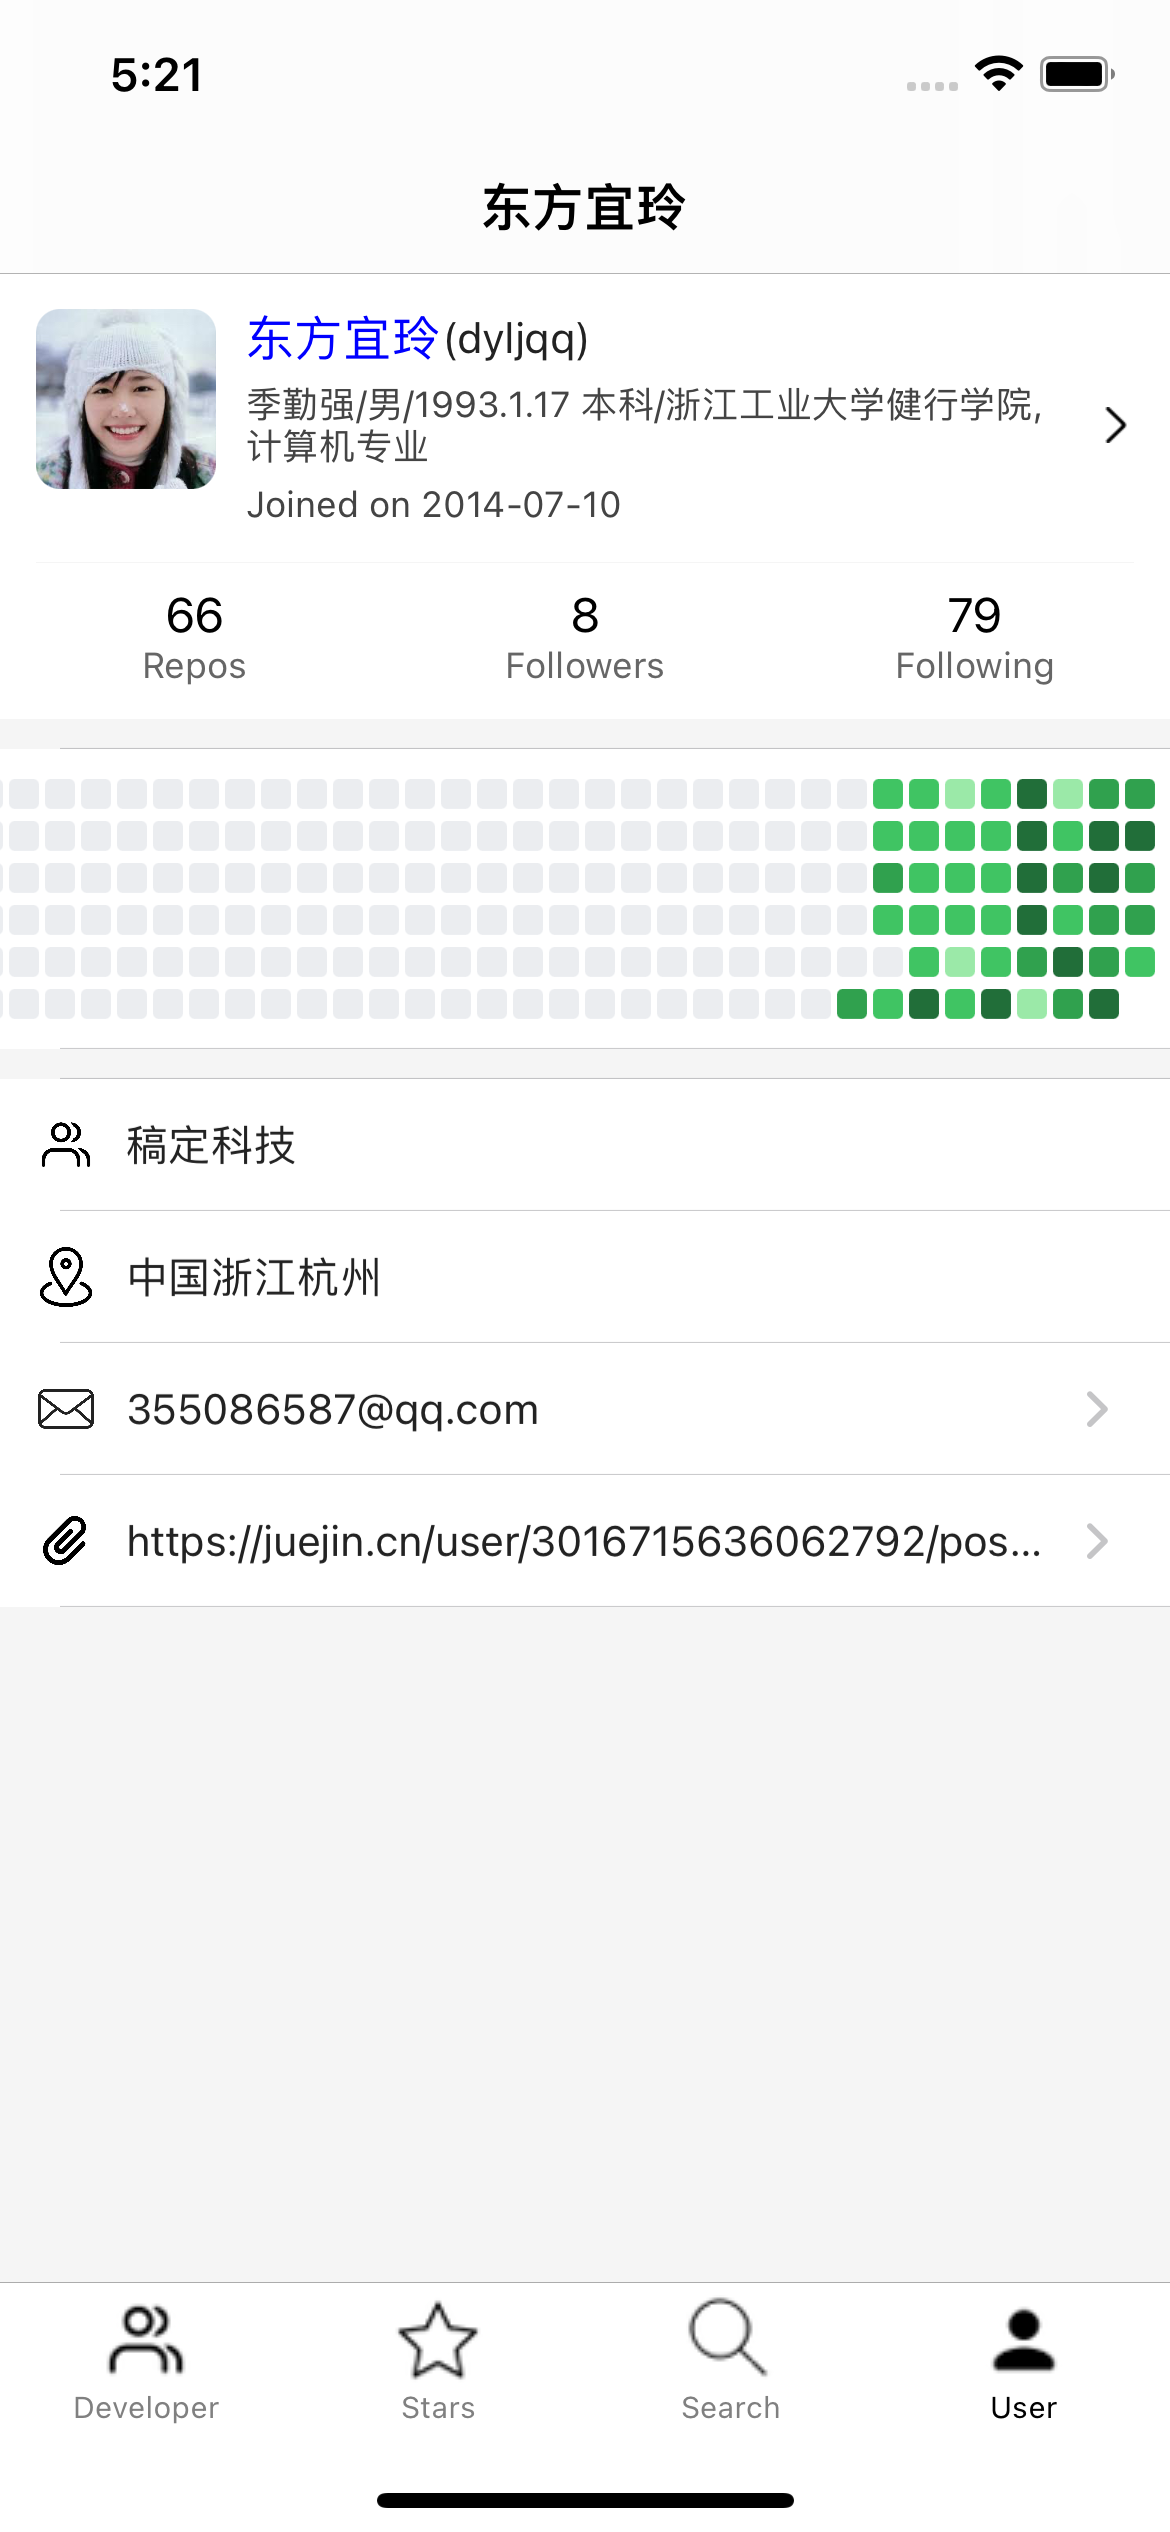
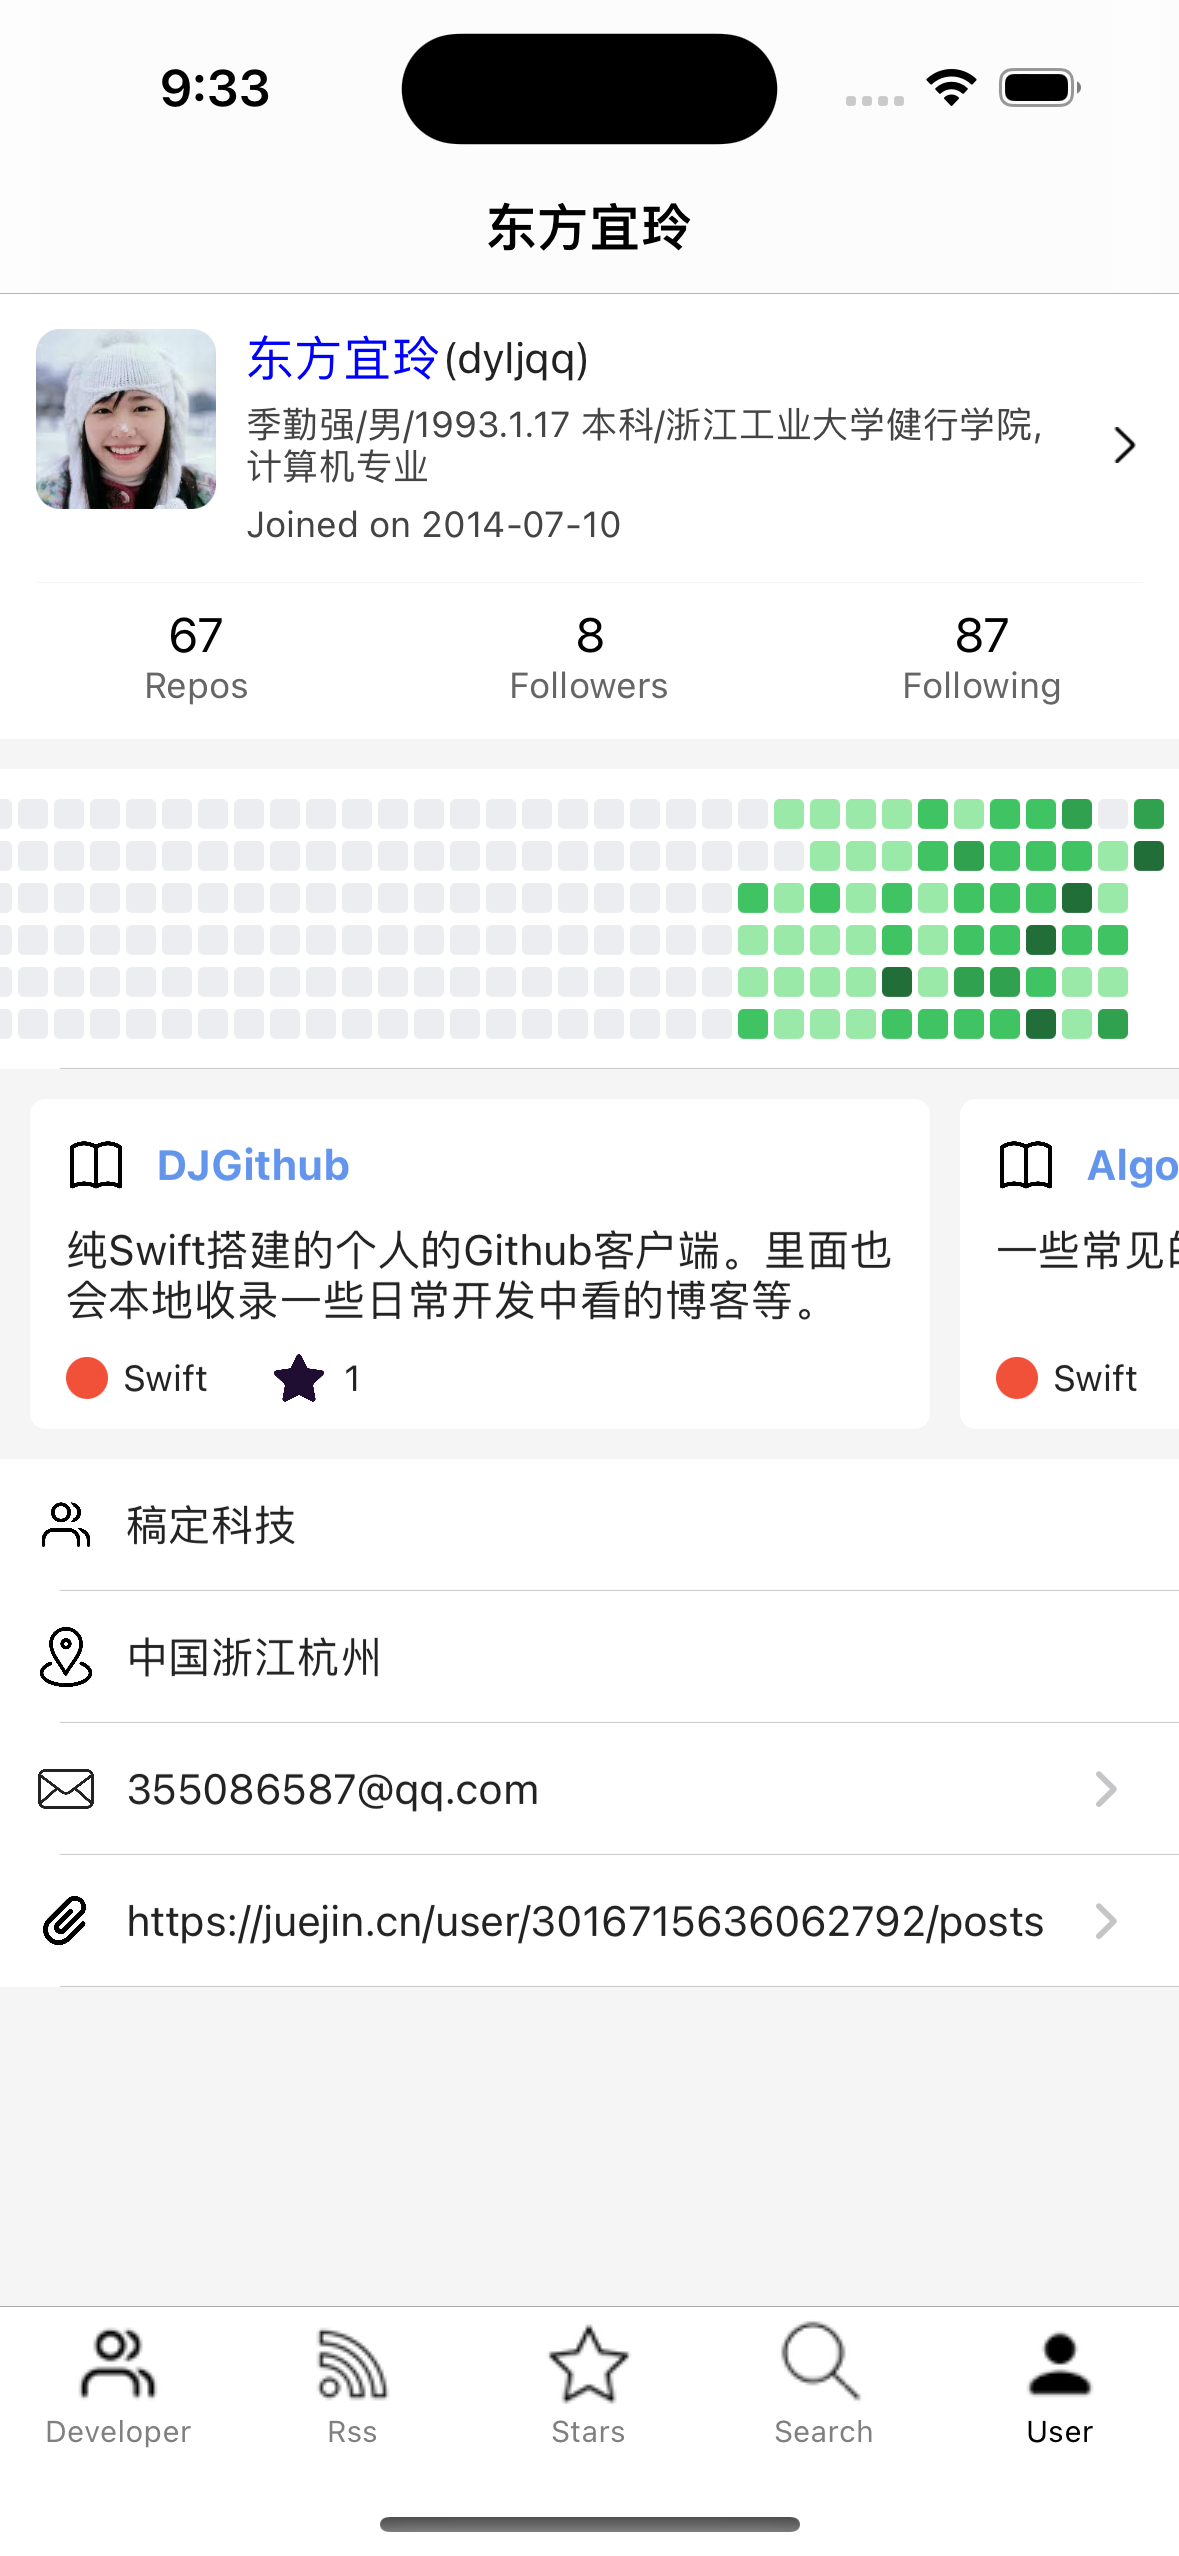
to show pinned items

diff --git a/DJGithub/Github/ViewController/User/Views/PinnedRepoCell.swift b/DJGithub/Github/ViewController/User/Views/PinnedRepoCell.swift
@@ -1,0 +1,135 @@
+//
+//  PinnedRepoCell.swift
+//  DJGithub
+//
+//  Created by jiqinqiang on 2022/10/26.
+//
+
+import UIKit
+
+class PinnedRepoCell: UICollectionViewCell {
+  
+  lazy var nameLabel: UILabel = {
+    let label = UILabel()
+    label.font = UIFont.systemFont(ofSize: 14, weight: .bold)
+    label.textColor = .lightBlue
+    return label
+  }()
+  
+  lazy var repoIconImageView: UIImageView = {
+    let imageView = UIImageView()
+    imageView.image = UIImage(named: "book")
+    return imageView
+  }()
+  
+  lazy var updatedLabel: UILabel = {
+    let label = UILabel()
+    label.font = UIFont.systemFont(ofSize: 12)
+    label.textColor = .textGrayColor
+    return label
+  }()
+  
+  lazy var descLabel: UILabel = {
+    let label = UILabel()
+    label.font = UIFont.systemFont(ofSize: 14)
+    label.textColor = .textColor
+    label.numberOfLines = 2
+    return label
+  }()
+  
+  lazy var languageColorView: UIView = {
+    let view = UIView()
+    view.layer.cornerRadius = 7
+    return view
+  }()
+  
+  lazy var languageLabel: UILabel = {
+    let label = UILabel()
+    label.textColor = .textColor
+    label.font = UIFont.systemFont(ofSize: 12)
+    return label
+  }()
+  
+  lazy var starImageView: UIImageView = {
+    let imageView = UIImageView()
+    imageView.image = UIImage(named: "star")
+    return imageView
+  }()
+  
+  lazy var starCountLabel: UILabel = {
+    let label = UILabel()
+    label.font = UIFont.systemFont(ofSize: 12)
+    label.textColor = .textColor
+    return label
+  }()
+  
+  override init(frame: CGRect) {
+    super.init(frame: frame)
+    setUp()
+  }
+  
+  func render(with pinnedItem: PinnedRepoNode) {
+    nameLabel.text = pinnedItem.name
+    descLabel.text = pinnedItem.description ?? "No Description Provided."
+    languageColorView.backgroundColor = pinnedItem.primaryLanguage?.color.toColor
+    languageLabel.text = pinnedItem.primaryLanguage?.name
+    if pinnedItem.viewerHasStarred {
+      starImageView.image = UIImage(named: "stared")
+    } else {
+      starImageView.image = UIImage(named: "star")
+    }
+    starCountLabel.text = "\(pinnedItem.stargazers.totalCount)"
+  }
+  
+  required init?(coder: NSCoder) {
+    fatalError("init(coder:) has not been implemented")
+  }
+  
+  private func setUp() {
+    contentView.backgroundColor = .white
+    contentView.layer.cornerRadius = 5
+    contentView.layer.masksToBounds = true
+
+    contentView.addSubview(repoIconImageView)
+    contentView.addSubview(nameLabel)
+    contentView.addSubview(updatedLabel)
+    contentView.addSubview(descLabel)
+    contentView.addSubview(languageColorView)
+    contentView.addSubview(languageLabel)
+    contentView.addSubview(starImageView)
+    contentView.addSubview(starCountLabel)
+    
+    repoIconImageView.snp.makeConstraints { make in
+      make.leading.equalTo(12)
+      make.top.equalTo(12)
+      make.width.height.equalTo(20)
+    }
+    nameLabel.snp.makeConstraints { make in
+      make.leading.equalTo(repoIconImageView.snp.trailing).offset(10)
+      make.centerY.equalTo(repoIconImageView)
+    }
+    descLabel.snp.makeConstraints { make in
+      make.top.equalTo(repoIconImageView.snp.bottom).offset(10)
+      make.leading.equalTo(repoIconImageView)
+      make.trailing.equalToSuperview().offset(-12)
+    }
+    languageColorView.snp.makeConstraints { make in
+      make.leading.equalTo(repoIconImageView)
+      make.width.height.equalTo(14)
+      make.bottom.equalToSuperview().offset(-10)
+    }
+    languageLabel.snp.makeConstraints { make in
+      make.centerY.equalTo(languageColorView)
+      make.leading.equalTo(languageColorView.snp.trailing).offset(5)
+    }
+    starImageView.snp.makeConstraints { make in
+      make.width.height.equalTo(20)
+      make.centerY.equalTo(languageColorView)
+      make.leading.equalTo(languageLabel.snp.trailing).offset(20)
+    }
+    starCountLabel.snp.makeConstraints { make in
+      make.centerY.equalTo(languageColorView)
+      make.leading.equalTo(starImageView.snp.trailing).offset(5)
+    }
+  }
+}

diff --git a/DJGithub/Github/ViewController/User/UserViewController.swift b/DJGithub/Github/ViewController/User/UserViewController.swift
@@ -52,12 +52,14 @@ fileprivate enum CellType {
   case userContribution(UserContribution)
   case blank
   case user(UserType)
+  case pinnedItem(PinnedRepos)
   
   var height: CGFloat {
     switch self {
     case .blank: return 10
     case .user: return 44
     case .userContribution: return 100
+    case .pinnedItem: return 110
     }
   }
 }
@@ -85,6 +87,7 @@ class UserViewController: UIViewController {
     tableView.backgroundColor = .backgroundColor
     tableView.register(UserCell.classForCoder(), forCellReuseIdentifier: UserCell.className)
     tableView.register(UserContributionCell.classForCoder(), forCellReuseIdentifier: UserContributionCell.className)
+    tableView.register(PinnedItemsCell.classForCoder(), forCellReuseIdentifier: PinnedItemsCell.className)
     return tableView
   }()
     
@@ -150,6 +153,9 @@ class UserViewController: UIViewController {
     if let userContribution = userViewer.userContribution {
       self.dataSource = [.blank, .userContribution(userContribution)]
     }
+    if userViewer.pinnedItems.nodes.count > 0 {
+      self.dataSource.append(contentsOf: [.blank, .pinnedItem(userViewer.pinnedItems)])
+    }
     self.dataSource.append(contentsOf: [.blank, .user(.company), .user(.location), .user(.email), .user(.link)])
     tableView.reloadData()
     
@@ -195,6 +201,7 @@ extension UserViewController: UITableViewDataSource {
       let cell = UITableViewCell()
       cell.backgroundColor = .backgroundColor
       cell.selectionStyle = .none
+      cell.separatorInset = UIEdgeInsets(top: 0, left: tableView.bounds.width, bottom: 0, right: 0)
       return cell
     case .user(let userType):
       let cell = tableView.dequeueReusableCell(withIdentifier: UserCell.className, for: indexPath) as! UserCell
@@ -205,6 +212,15 @@ extension UserViewController: UITableViewDataSource {
       }
       let (content, color) = userType.getContent(by: userViewer)
       cell.render(with: userType.iconImageName, content: content, contentColor: color)
+      return cell
+    case .pinnedItem(let pinnedItems):
+      let cell = tableView.dequeueReusableCell(withIdentifier: PinnedItemsCell.className, for: indexPath) as! PinnedItemsCell
+      cell.render(with: pinnedItems)
+      cell.separatorInset = UIEdgeInsets(top: 0, left: tableView.bounds.width, bottom: 0, right: 0)
+      cell.onTouchPinnedItem = { [weak self] item in
+        guard let strongSelf = self else { return }
+        strongSelf.navigationController?.pushToRepo(with: strongSelf.name, repoName: item.name)
+      }
       return cell
     }
   }

diff --git a/DJGithub/Github/ViewController/User/Views/PinnedItemsCell.swift b/DJGithub/Github/ViewController/User/Views/PinnedItemsCell.swift
@@ -1,0 +1,68 @@
+//
+//  PinnedItemsCell.swift
+//  DJGithub
+//
+//  Created by jiqinqiang on 2022/10/26.
+//
+
+import UIKit
+
+class PinnedItemsCell: UITableViewCell {
+  
+  lazy var collectionView: UICollectionView = {
+    let layout = UICollectionViewFlowLayout()
+    layout.minimumInteritemSpacing = 10
+    layout.sectionInset = UIEdgeInsets(top: 0, left: 10, bottom: 0, right: 10)
+    layout.scrollDirection = .horizontal
+    
+    let collectionView = UICollectionView(frame: .zero, collectionViewLayout: layout)
+    collectionView.showsHorizontalScrollIndicator = false
+    collectionView.delegate = self
+    collectionView.dataSource = self
+    collectionView.register(PinnedRepoCell.classForCoder(), forCellWithReuseIdentifier: PinnedRepoCell.className)
+    return collectionView
+  }()
+  
+  var dataSource: [PinnedRepoNode] = []
+  var onTouchPinnedItem: ((PinnedRepoNode) -> ())?
+  
+  override init(style: UITableViewCell.CellStyle, reuseIdentifier: String?) {
+    super.init(style: style, reuseIdentifier: reuseIdentifier)
+    
+    collectionView.backgroundColor = .backgroundColor
+    contentView.addSubview(collectionView)
+    collectionView.snp.makeConstraints { make in
+      make.edges.equalToSuperview()
+    }
+  }
+  
+  func render(with pinnedItem: PinnedRepos) {
+    self.dataSource = pinnedItem.nodes
+    self.collectionView.reloadData()
+  }
+  
+  required init?(coder: NSCoder) {
+    fatalError("init(coder:) has not been implemented")
+  }
+}
+
+extension PinnedItemsCell: UICollectionViewDelegate, UICollectionViewDataSource, UICollectionViewDelegateFlowLayout {
+  func collectionView(_ collectionView: UICollectionView, numberOfItemsInSection section: Int) -> Int {
+    return dataSource.count
+  }
+  
+  func collectionView(_ collectionView: UICollectionView, cellForItemAt indexPath: IndexPath) -> UICollectionViewCell {
+    let cell = collectionView.dequeueReusableCell(withReuseIdentifier: PinnedRepoCell.className, for: indexPath) as! PinnedRepoCell
+    cell.render(with: dataSource[indexPath.row])
+    return cell
+  }
+  
+  func collectionView(_ collectionView: UICollectionView, layout collectionViewLayout: UICollectionViewLayout, sizeForItemAt indexPath: IndexPath) -> CGSize {
+    return CGSize(width: 300, height: 110)
+  }
+  
+  func collectionView(_ collectionView: UICollectionView, didSelectItemAt indexPath: IndexPath) {
+    collectionView.deselectItem(at: indexPath, animated: true)
+    onTouchPinnedItem?(dataSource[indexPath.row])
+  }
+}

diff --git a/DJGithub/Github/Model/UserViewer.swift b/DJGithub/Github/Model/UserViewer.swift
@@ -42,10 +42,11 @@ struct PinnedRepos: DJCodable {
 struct PinnedRepoNode: DJCodable {
   var name: String
   var nameWithOwner: String
-  var description: String
+  var description: String?
+  var viewerHasStarred: Bool
   var owner: PinnedRepoNodeOwner
   var stargazers: TotalCountModel
-  var primaryLanguage: PrimaryLanguage
+  var primaryLanguage: PrimaryLanguage?
 }
 
 extension PinnedRepoNode {

diff --git a/DJGithub/Github/ViewController/Repo/Views/RepoFooterView.swift b/DJGithub/Github/ViewController/Repo/Views/RepoFooterView.swift
@@ -16,6 +16,7 @@ class RepoFooterView: UIView {
 
   lazy var mdView: MarkdownView = {
     let mdView = MarkdownView()
+    mdView.isScrollEnabled = false
     return mdView
   }()
   
